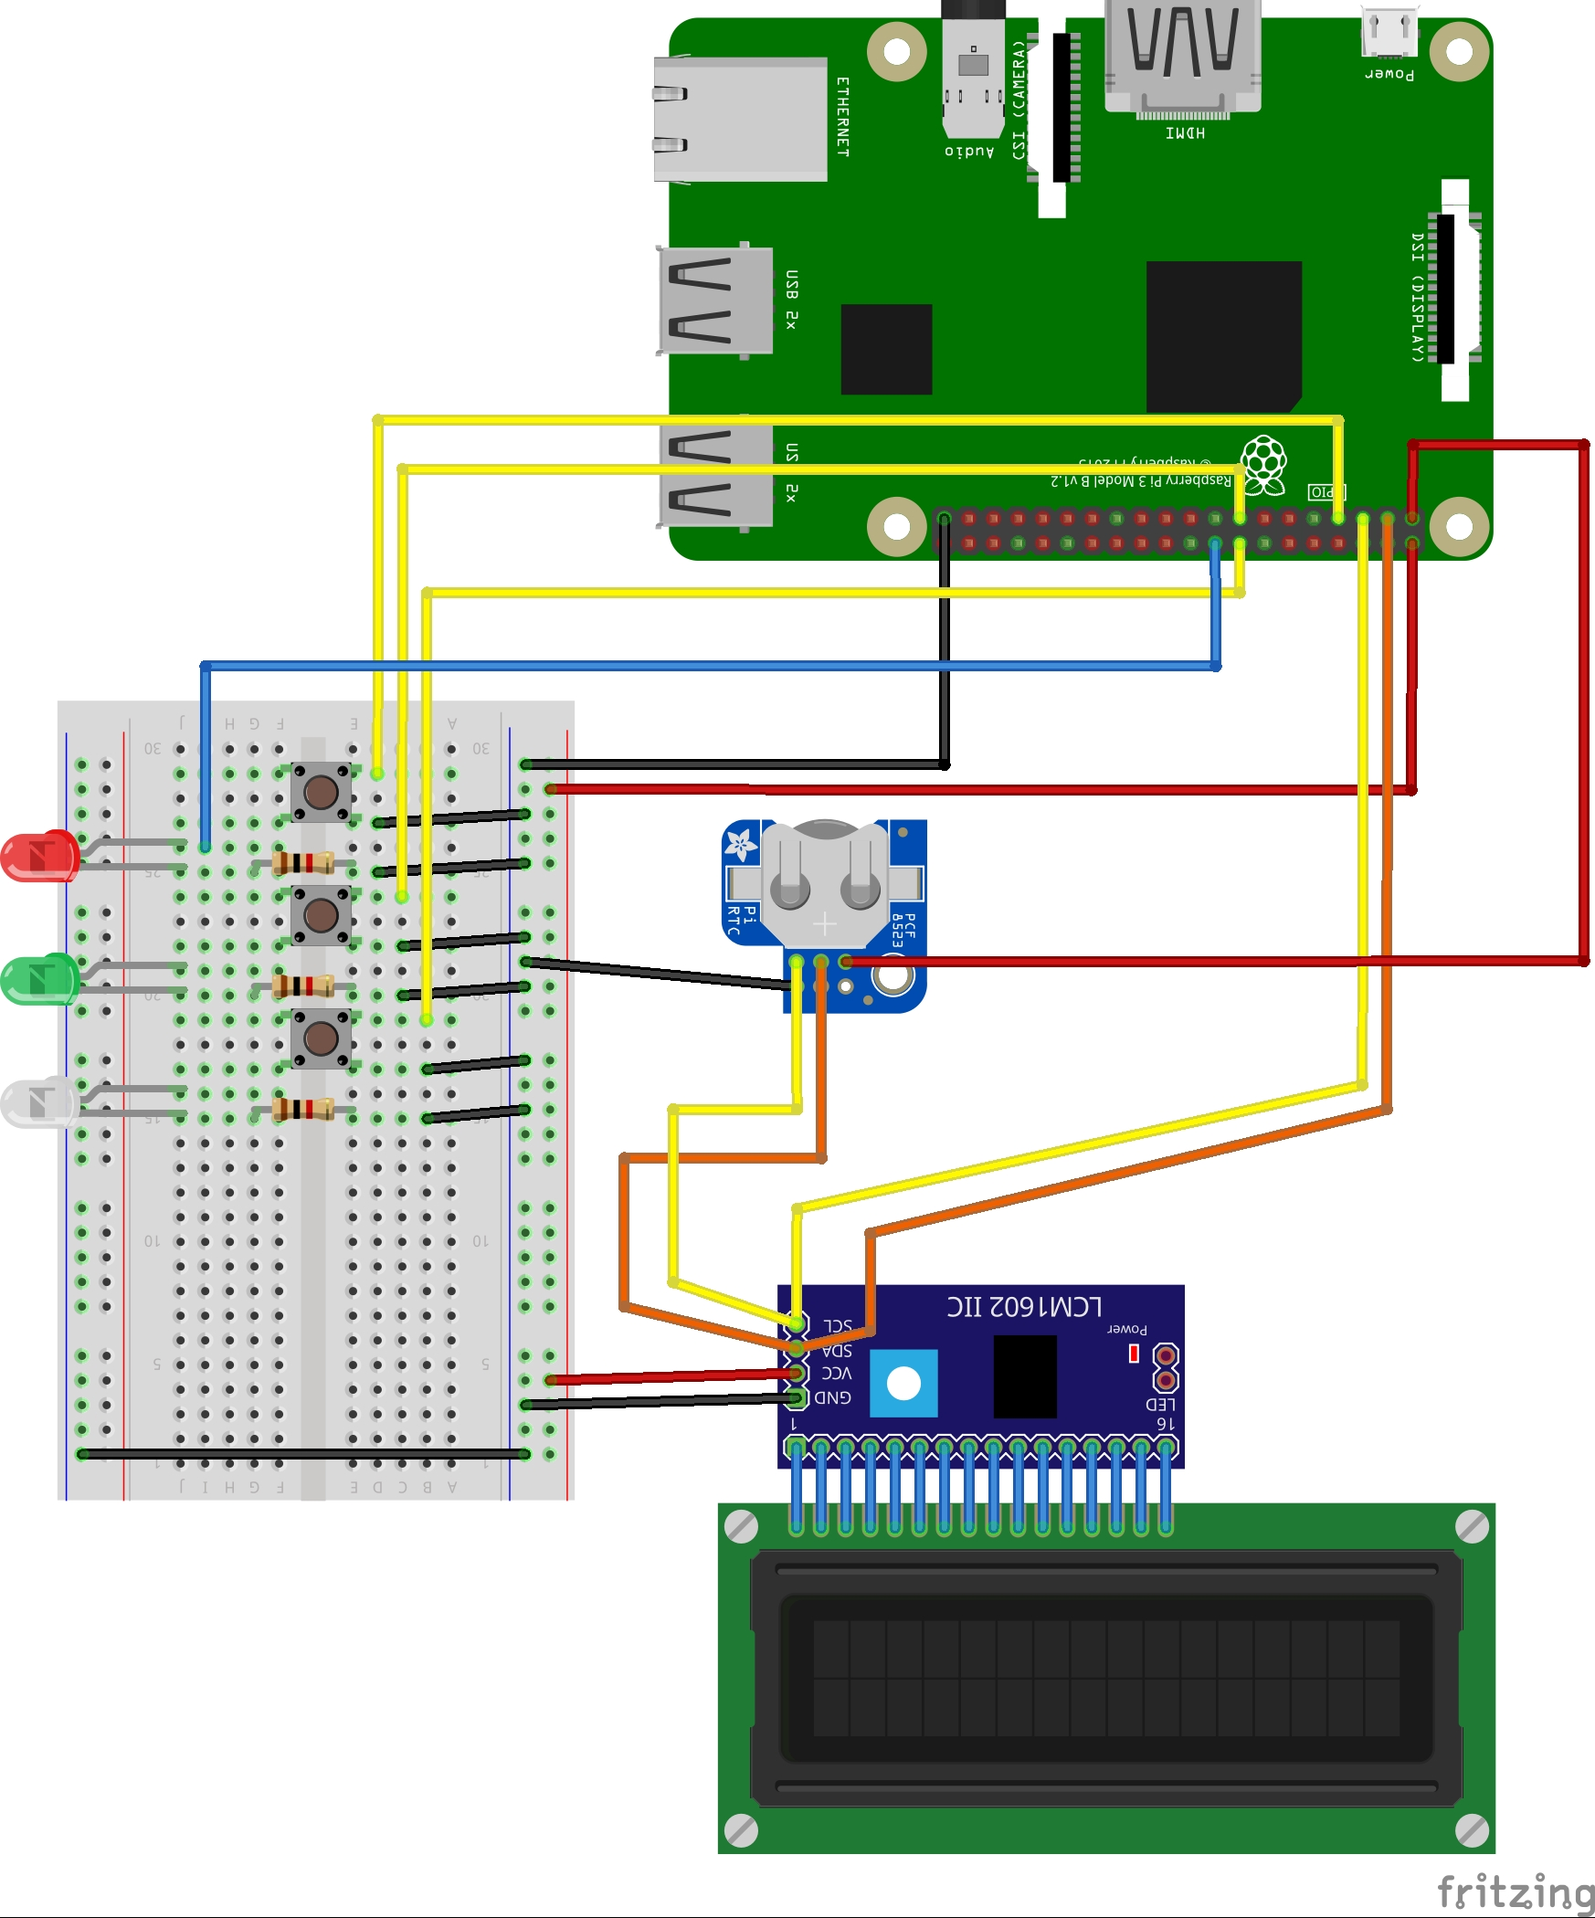
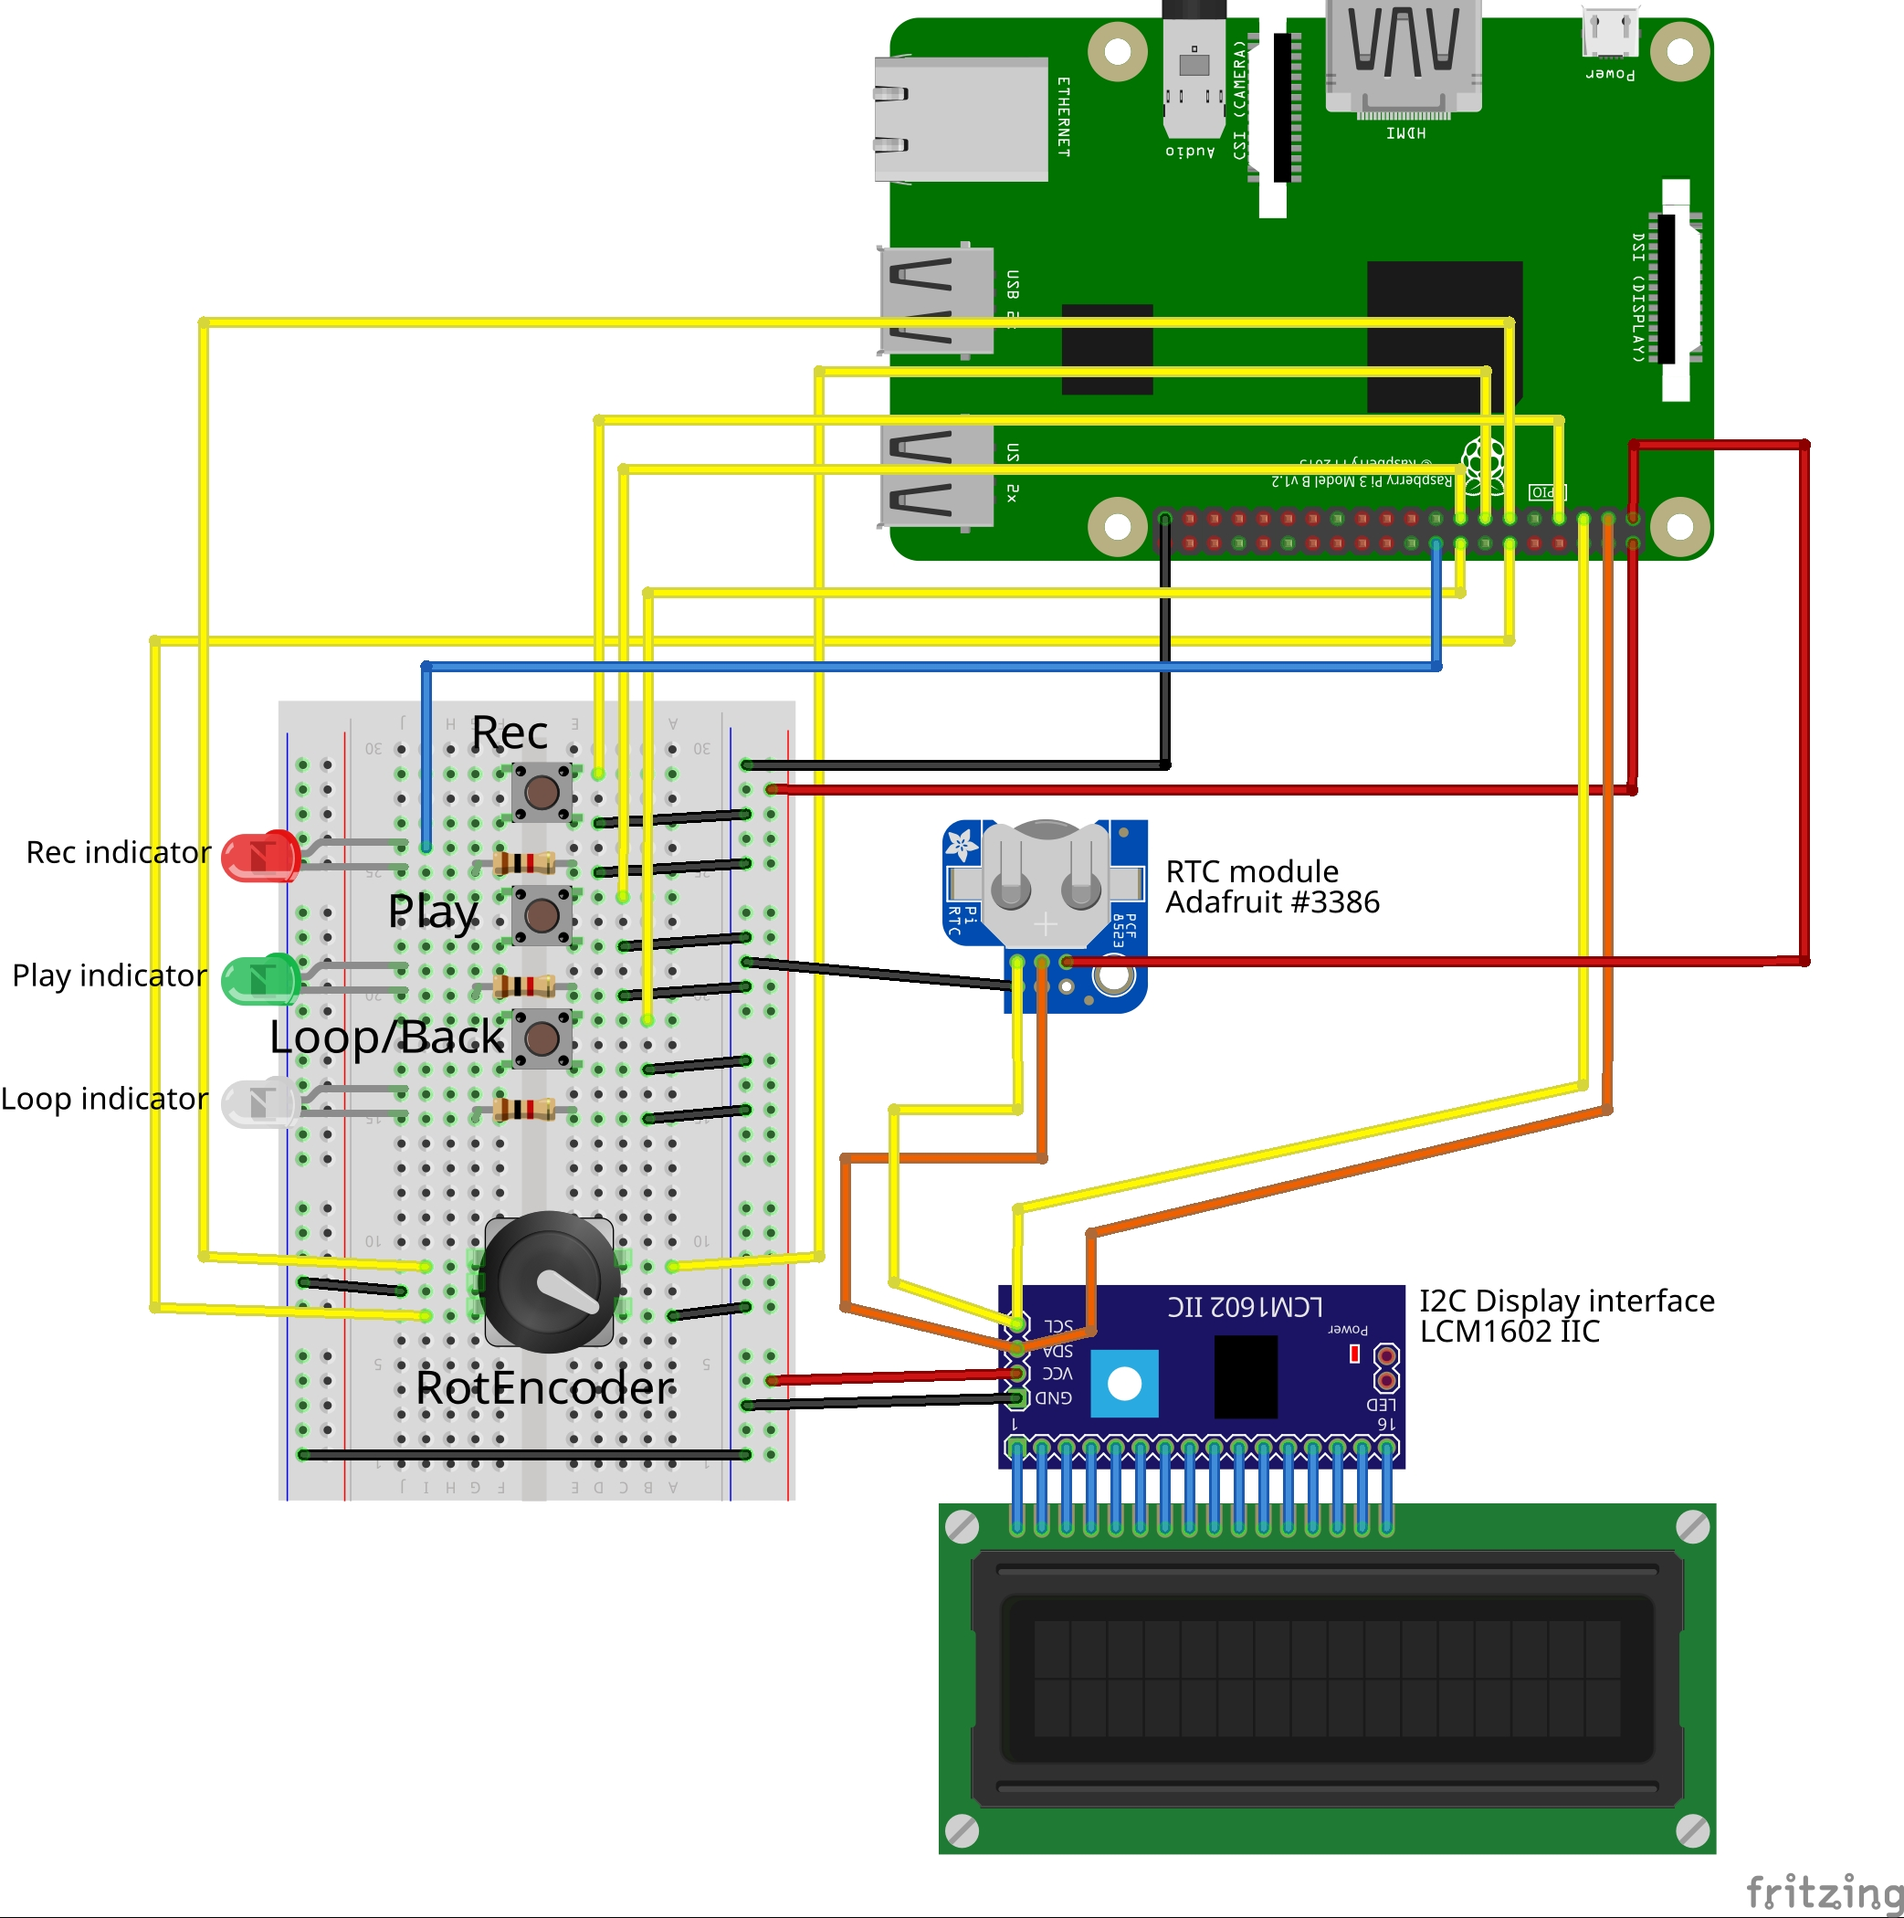
added rotary encoder to schematic and list of materials

Changed region(s): [[0.0, 0.0, 1.0, 0.9905], [0.866, 0.7738, 1.0, 1.0], [0.8351, 0.65, 0.8969, 0.681]]

diff --git a/README.md b/README.md
@@ -3,8 +3,9 @@
 ## List of materials
 
 - Raspberry Pi 3
-- 3 push buttons (1 momentary and 2 on/off switches)
+- 3 push buttons (1 momentary: Loop, and 2 on/off switches: Rec and Play)
 - 3 LEDs and resistors
+- a rotary encoder with integrated push button (for menu navigation)
 - real Time Clock module
 - LCD Display (20x4 characters)
 - an adequate enclosure
